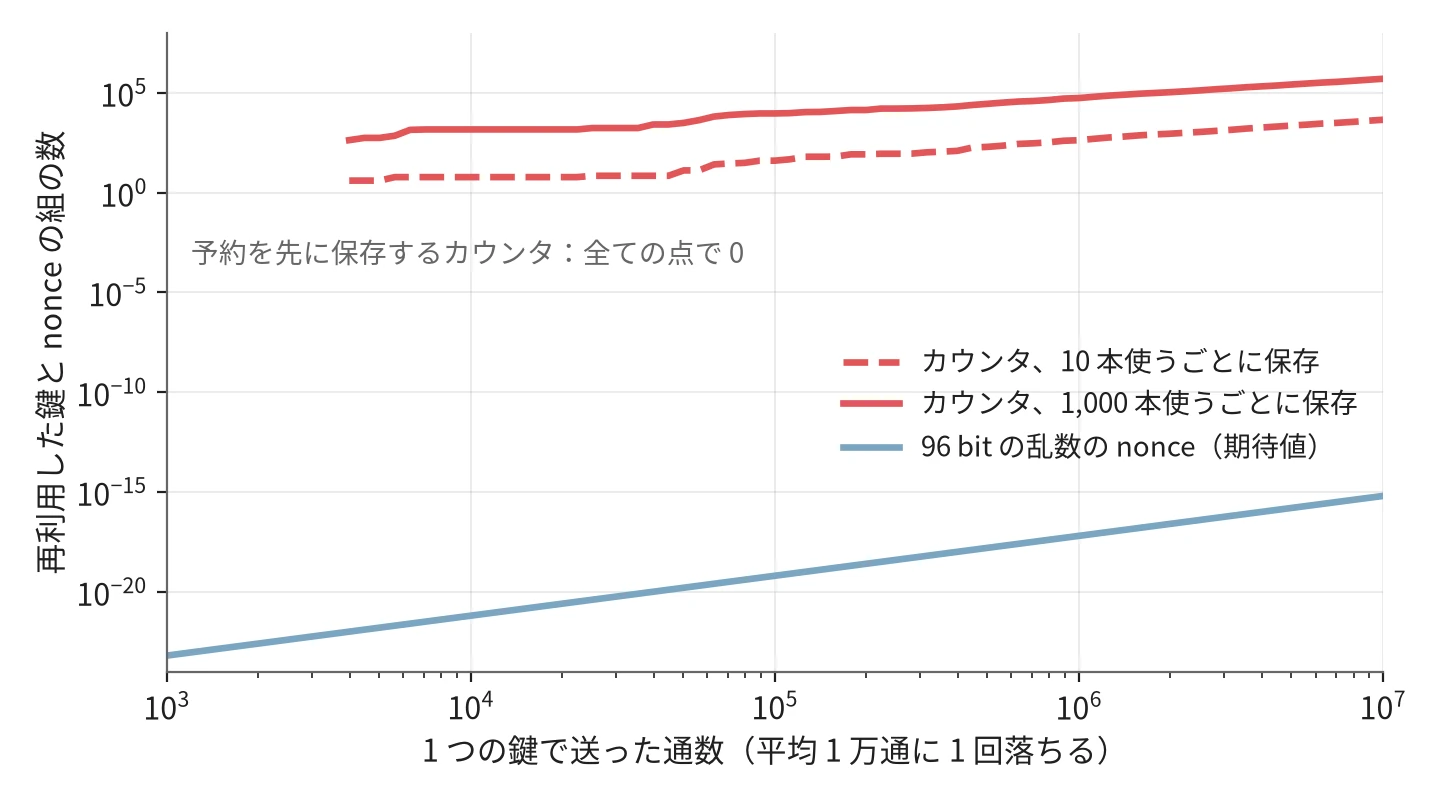
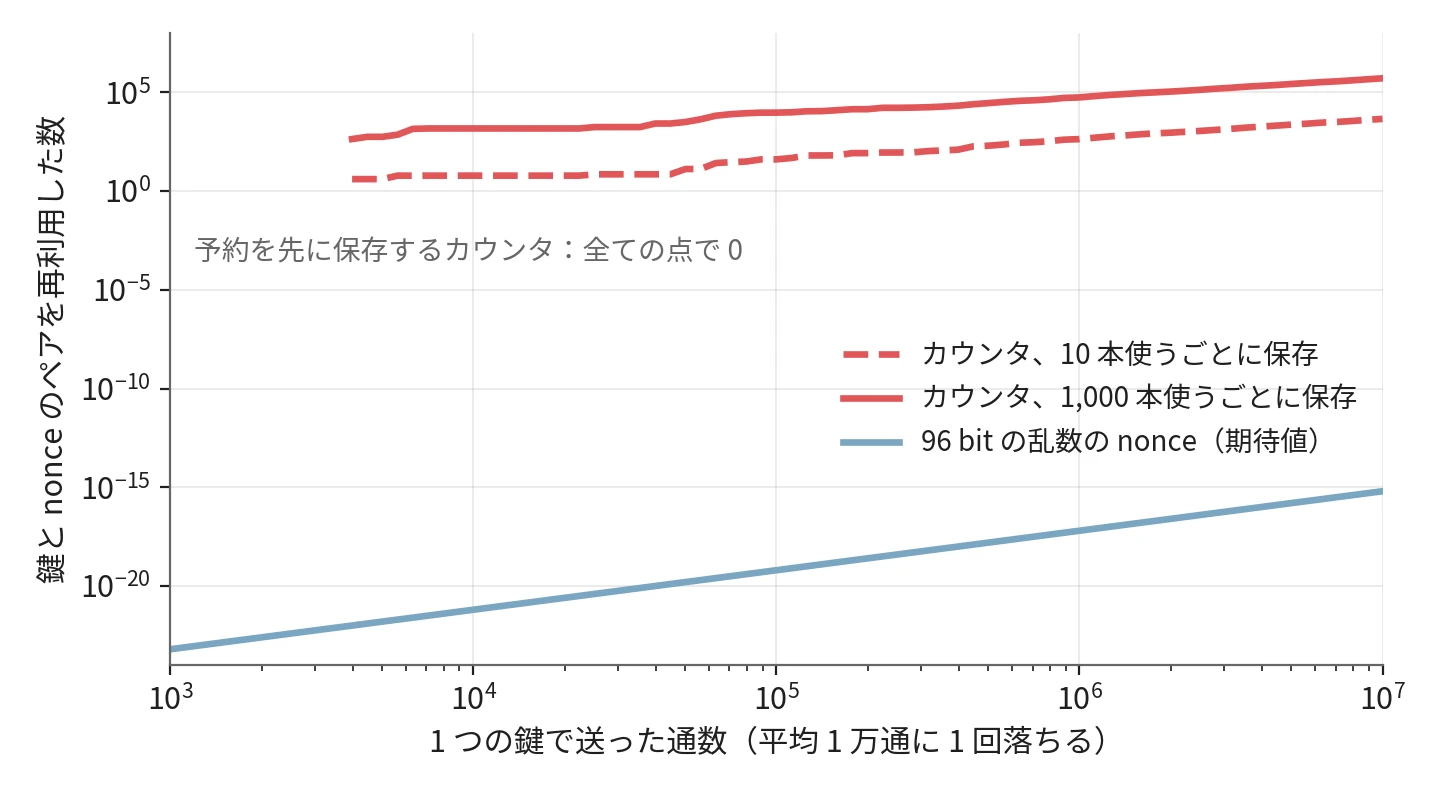
docs(notes): replace the bare 組 in the nonce note and its figures
Claude-Session: https://claude.ai/code/session_01YUxqeZKPbCLCF82LgM8vBK

diff --git a/content/notes/security/nonce/figures.py b/content/notes/security/nonce/figures.py
@@ -169,7 +169,7 @@ def counter_restart_figure():
     ax.set_ylim(1e-24, 1e8)
     ax.set_yticks([1e-20, 1e-15, 1e-10, 1e-5, 1, 1e5])
     ax.set_xlabel("1 つの鍵で送った通数（平均 1 万通に 1 回落ちる）")
-    ax.set_ylabel("再利用した鍵と nonce の組の数")
+    ax.set_ylabel("鍵と nonce のペアを再利用した数")
     ax.text(1.2e3, 3e-4, "予約を先に保存するカウンタ：全ての点で 0",
             color=SUB, fontsize=10)
     ax.legend(loc="center right", frameon=False, fontsize=10,
@@ -354,7 +354,7 @@ def tls_krack_figure():
     f.text((x(52) + x(120)) / 2, 285, "設定し直す前", 24)
     seg(f, 0, 50, 296, 40, OCHRE_PALE, OCHRE, "設定し直した後")
     f.box(x(0) - 4, 250, x(50) - x(0) + 8, 92, "none", RED, sw=4, rx=6)
-    f.text(x(50) + 24, 326, "同じ鍵と nonce の組を 2 度使う", 24, RED, anchor="start")
+    f.text(x(50) + 24, 326, "同じ鍵と nonce のペアを 2 度使う", 24, RED, anchor="start")
     f.save(HERE / "images" / "nonce_tls_krack.webp")
 
 
